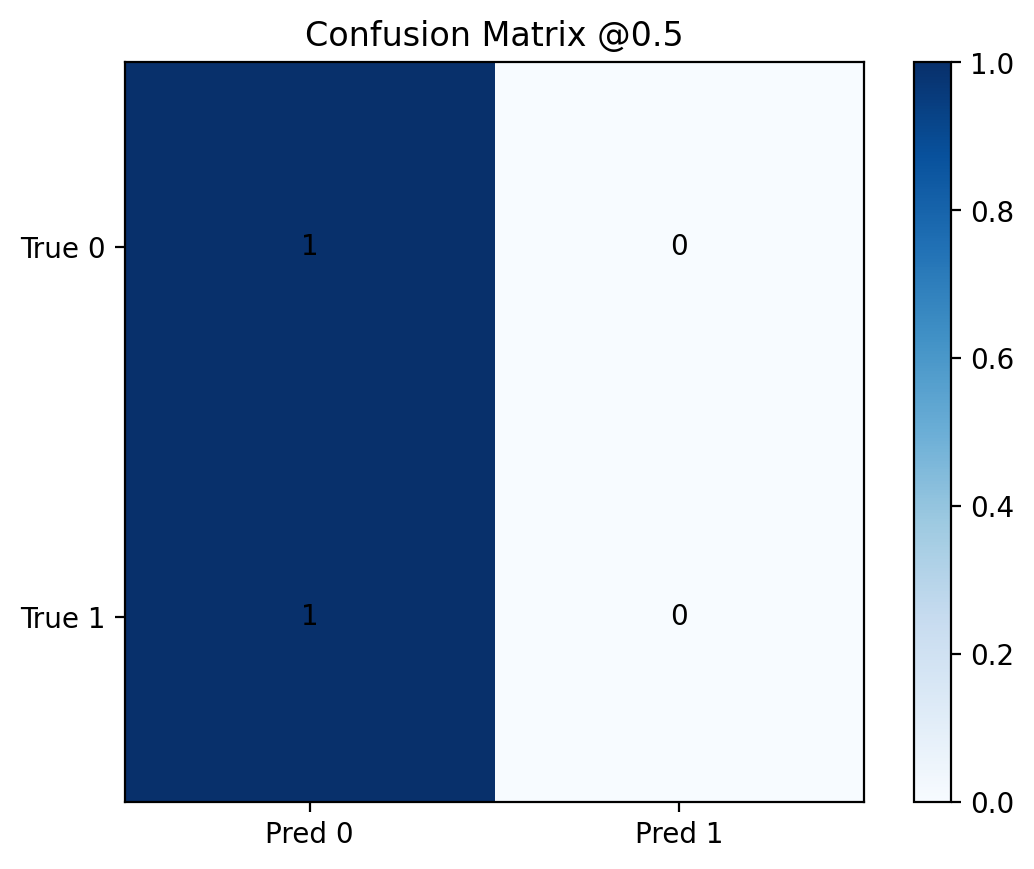
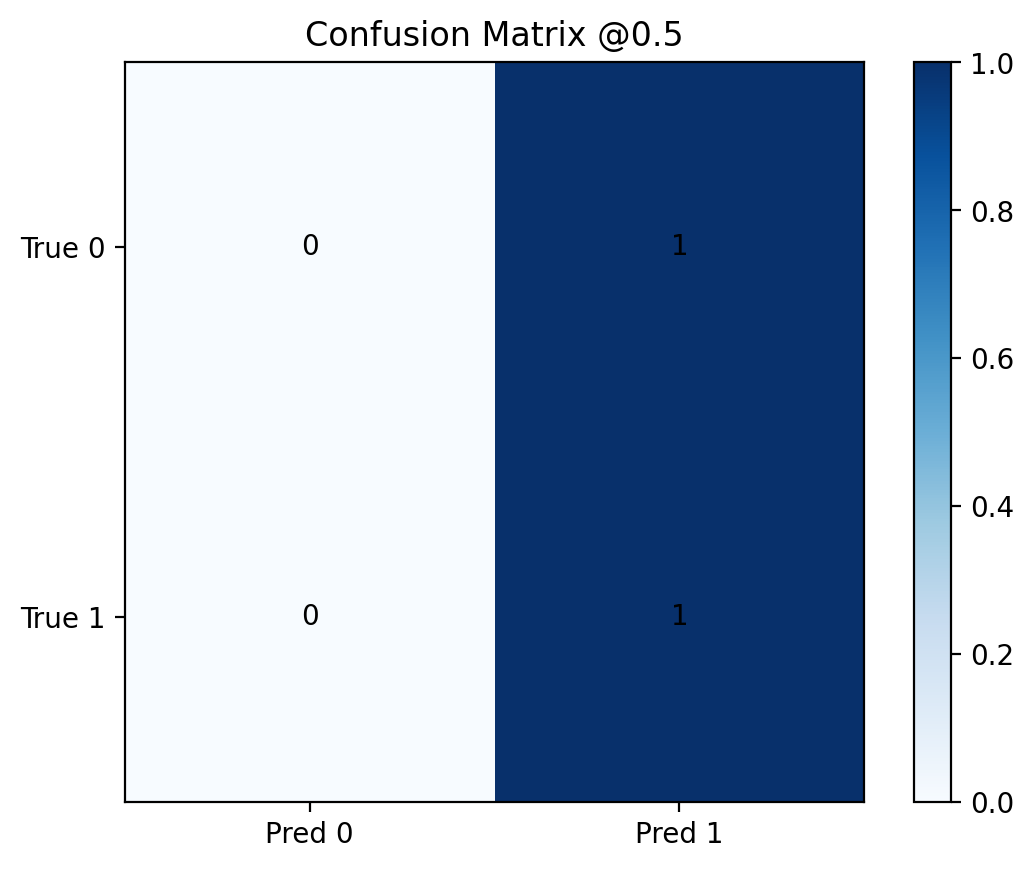
Fix: optimized threshold to 0.15 and solved majority prediction issue

diff --git a/src/experiments.py b/src/experiments.py
@@ -1,4 +1,4 @@
-himport os
+import os
 import json
 import argparse
 from itertools import product
@@ -62,7 +62,7 @@ def run_single(
 
     # --- evaluation ---
     y_prob = positive_proba(clf, X_test, pos_label=1)
-    metrics = evl.classification_metrics(y_test, y_prob, threshold=0.5)
+    metrics = evl.classification_metrics(y_test, y_prob, threshold=0.15)
     (fpr, tpr, _), (prec, rec, _) = evl.curves(y_test, y_prob)
     prob_true, prob_pred = evl.calibration_points(y_test, y_prob)
 

diff --git a/src/pipeline.py b/src/pipeline.py
@@ -56,7 +56,7 @@ def main():
 
     # --- evaluation ---
     y_prob = positive_proba(clf, X_test, pos_label=1)
-    metrics = evl.classification_metrics(y_test, y_prob, threshold=0.5)
+    metrics = evl.classification_metrics(y_test, y_prob, threshold=0.15)
     (fpr, tpr, _), (prec, rec, _) = evl.curves(y_test, y_prob)
     prob_true, prob_pred = evl.calibration_points(y_test, y_prob, n_bins=10)
 
